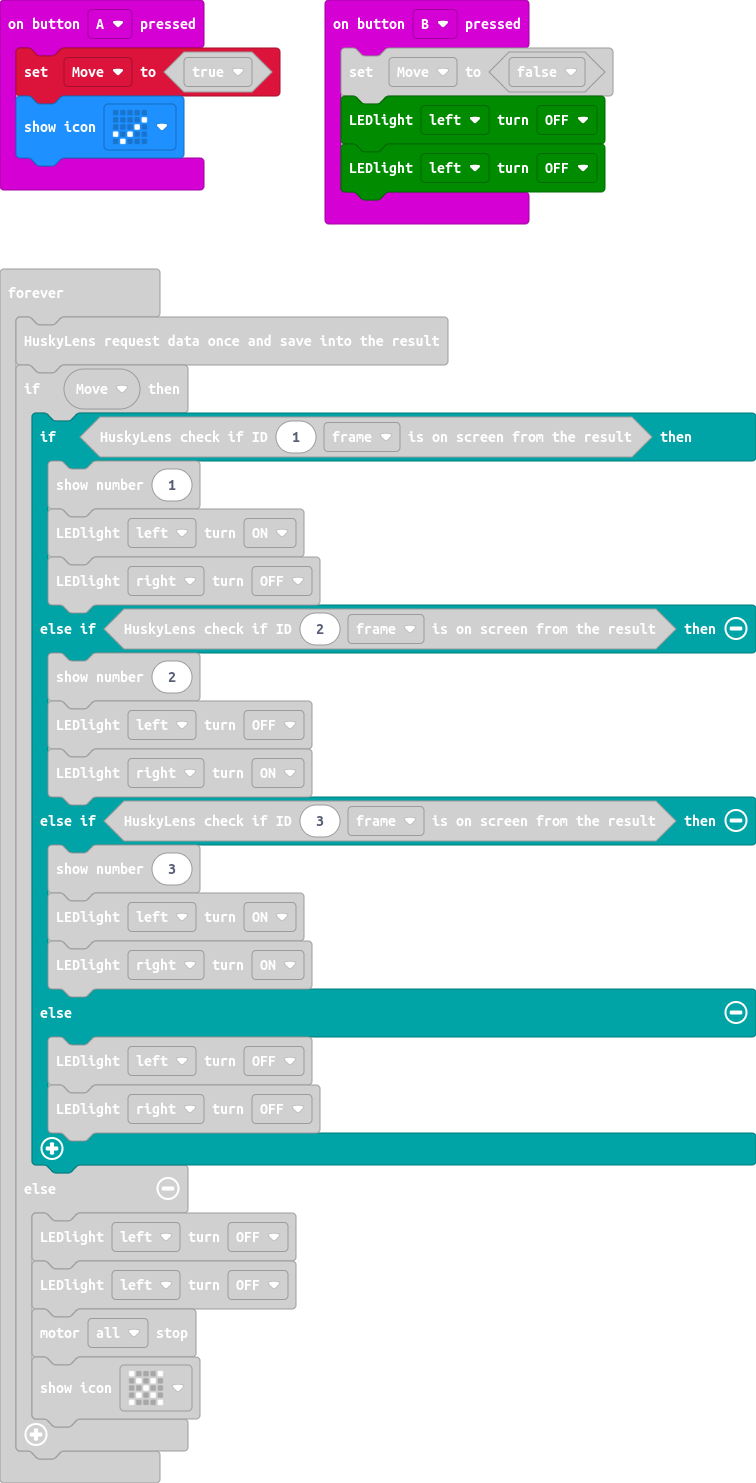
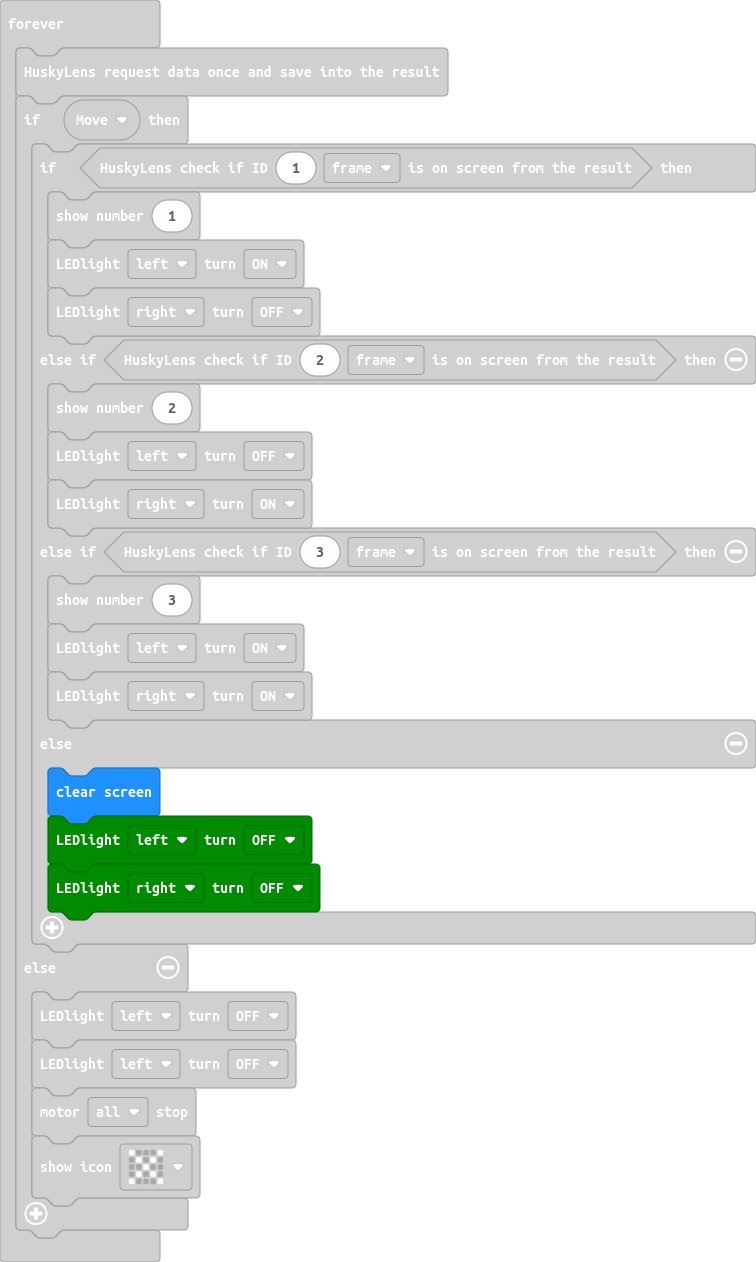
clear display if no tag

diff --git a/main.ts b/main.ts
@@ -30,6 +30,7 @@ basic.forever(function () {
             maqueen.writeLED(maqueen.LED.LEDLeft, maqueen.LEDswitch.turnOn)
             maqueen.writeLED(maqueen.LED.LEDRight, maqueen.LEDswitch.turnOn)
         } else {
+            basic.clearScreen()
             maqueen.writeLED(maqueen.LED.LEDLeft, maqueen.LEDswitch.turnOff)
             maqueen.writeLED(maqueen.LED.LEDRight, maqueen.LEDswitch.turnOff)
         }
